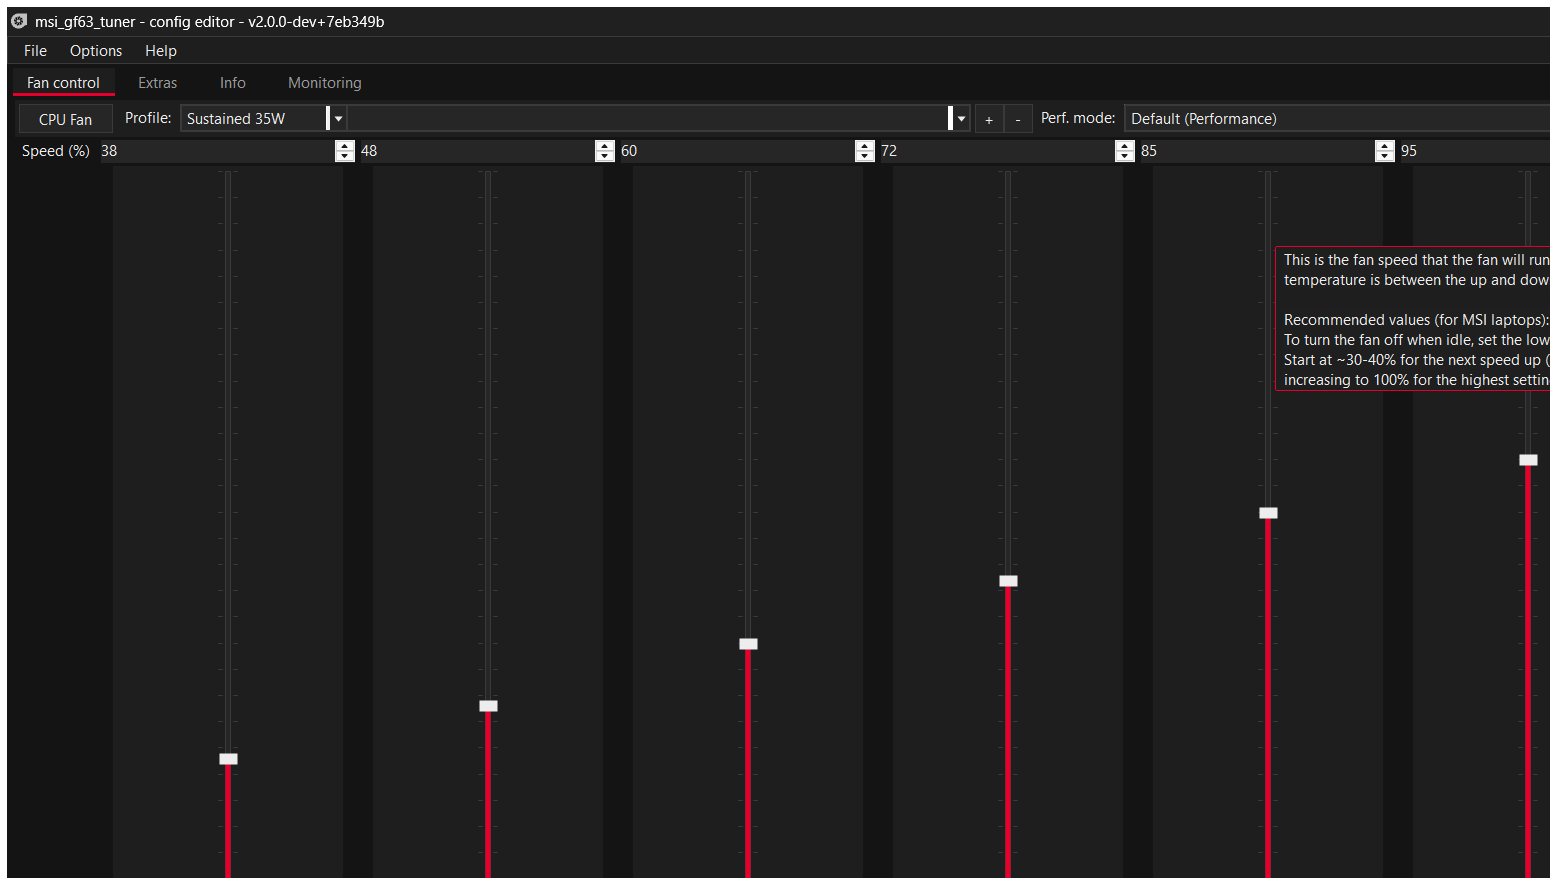
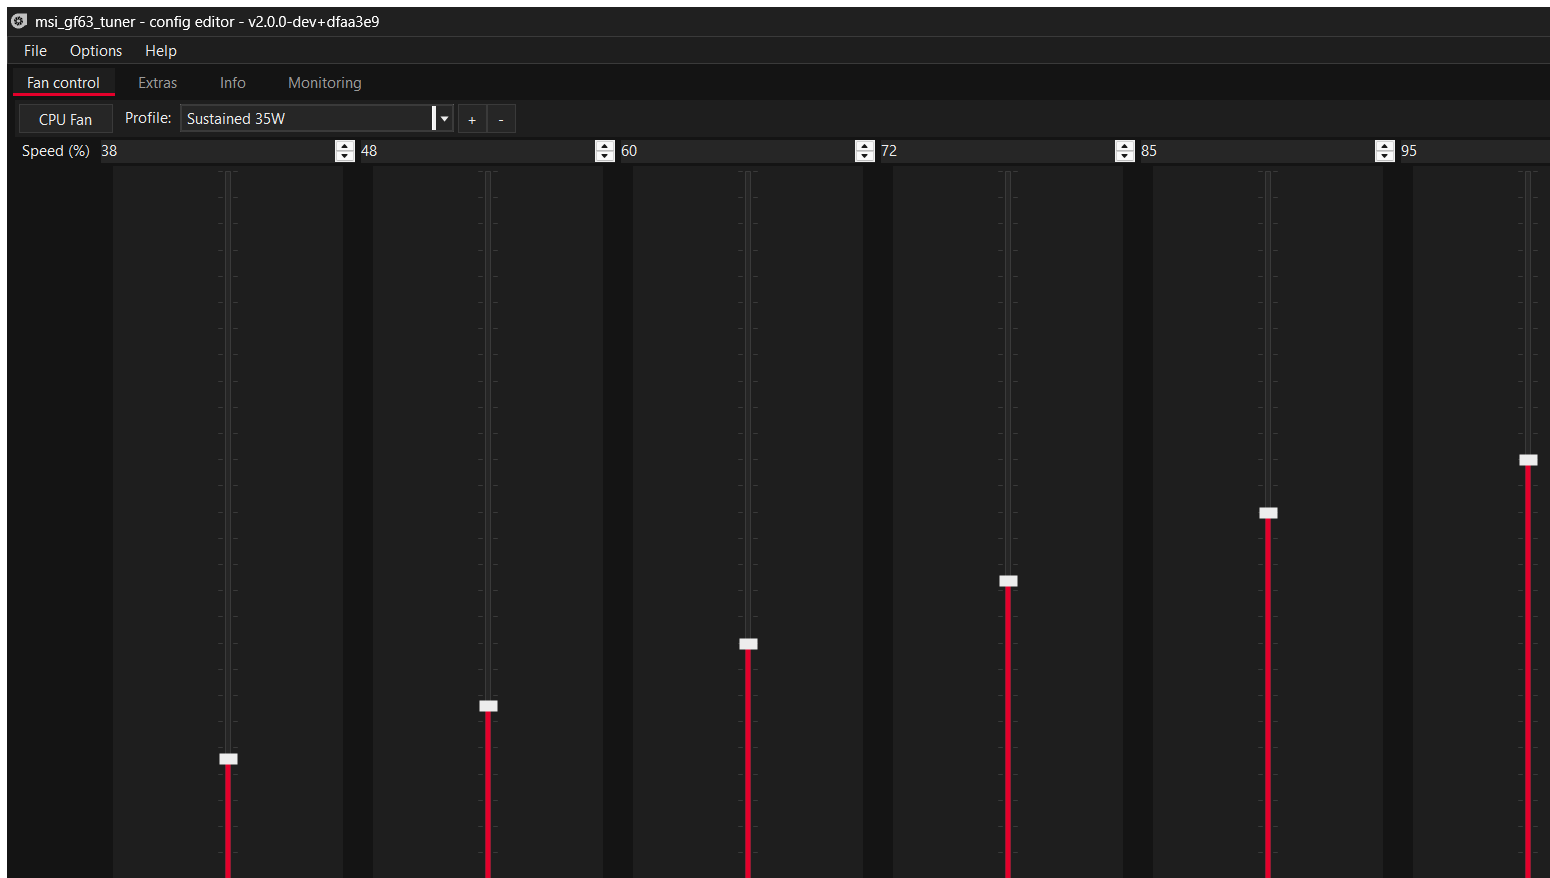
Document the monitoring, overlay and OSD features; refresh screenshots
The README still described this as a fan control utility with a CPU/GPU
temperature readout, and listed full hardware monitoring as a MSI Center
feature with no equivalent here. It now covers:

- the Monitoring tab, and where each reading comes from
- why RTCore64 was rejected rather than borrowed from Afterburner
- the desktop overlay, what it can and cannot draw over, and why
- the optional RTSS in-game OSD, and the --overlay / --osd switches
- the removal of the duplicated per-profile Perf. mode selector
- four new known issues: the exclusive-fullscreen limit, the iGPU having no
  sensor of its own, framerate needing RTSS, and the driver-free sensor stack
  being Intel-specific

Screenshots retaken from the current build, and two added for the Monitoring
tab and the overlay.

diff --git a/README.md b/README.md
@@ -1,9 +1,10 @@
 # msi_gf63_tuner
 
-A lightweight fan control and tuning utility for the **MSI GF63 Thin 12HW-004IN**,
-replacing MSI Center.
+A lightweight fan control, tuning and hardware monitoring utility for the
+**MSI GF63 Thin 12HW-004IN**, replacing MSI Center — and, on this machine, MSI
+Afterburner too.
 
-**~950 MB → 6.6 MB. No kernel driver. No background bloat.**
+**~950 MB → 7 MB. No kernel driver. No background bloat.**
 
 A fork of [YAMDCC](https://codeberg.org/Sparronator9999/YAMDCC) by
 Sparronator9999, retargeted at one laptop and fixed until it worked on it.
@@ -36,9 +37,16 @@ If you are not comfortable with any of the above, use MSI Center instead.
 
 ![Fan control tab](Media/tuner-FanControl.png)
 
-<details><summary><b>Extras tab</b> (click to expand)</summary>
+![Monitoring tab](Media/tuner-Monitoring.png)
+
+<details><summary><b>Extras tab, and the desktop overlay</b> (click to expand)</summary>
 
 ![Extras tab](Media/tuner-Extras.png)
+
+The overlay, floating over everything else on screen (shown here against a
+blank dark window so the labels are legible):
+
+![Overlay](Media/tuner-Overlay.png)
 
 </details>
 
@@ -53,12 +61,16 @@ Everything here was measured on this machine, not assumed:
 | BIOS | E16R7IMS.10F |
 | EC firmware | `16R7IMS1.104` (2023-06-13) |
 | CPU | Intel Core i5-12500H |
+| iGPU | Intel Iris Xe Graphics |
+| dGPU | Intel Arc A370M |
 | Fans | **one** — `Get_Fan(0)` reports `fan[0]` only |
 | Backend | WMI2 (`MSI_ACPI`), WMI version **2.8** |
-| Driver | **none** — no WinRing0 |
+| Driver | **none** — no WinRing0, no RTCore64 |
 
 It will likely work on other WMI2-era MSI laptops, but nothing else has been
-tested and no other configs are shipped.
+tested and no other configs are shipped. The GPU monitoring is Intel-specific
+(see [Hardware monitoring](#4-hardware-monitoring-without-a-kernel-driver));
+on an NVIDIA machine those rows will be empty while everything else still works.
 
 ## Features
 
@@ -70,10 +82,12 @@ tested and no other configs are shipped.
 | Keyboard backlight | off / low / mid / bright |
 | Performance mode | Silent, Balanced, Performance, Max Battery |
 | Win ↔ Fn key swap | supported |
-| Monitoring | CPU/GPU temperature, fan duty and RPM |
+| Hardware monitoring | CPU and **both** GPUs: temperature, load, clocks, VRAM, power |
+| Desktop overlay | click-through always-on-top readout |
+| In-game OSD | optional, via RivaTuner Statistics Server |
 
 Not included (MSI Center features with no equivalent here): Mystic Light RGB,
-Super Charger, LAN Manager, Win-key disable, full hardware monitoring.
+Super Charger, LAN Manager, Win-key disable.
 
 ## Why it uses no driver
 
@@ -87,6 +101,18 @@ That matters because the alternative — WinRing0, a kernel driver — is
 and it was flagged on this machine during development. The installer now
 excludes `WinRing0*.sys` from every component except EC Inspector, so a default
 install ships no driver at all.
+
+The same rule was applied to monitoring. MSI Afterburner reads its sensors
+through **RTCore64.sys**, and bundling that was considered and rejected:
+
+- It has an [unfixed arbitrary ring-0 read/write vulnerability](https://nvd.nist.gov/vuln/detail/CVE-2019-16098)
+  (CVE-2019-16098) and is on Microsoft's vulnerable-driver blocklist, so
+  shipping it would install a known local privilege-escalation primitive.
+- It is proprietary and not redistributable, which is incompatible with this
+  project's GPL-3 licence.
+
+So every reading below comes from an interface Windows or Intel already
+exposes to user mode. Nothing is installed to get them.
 
 ## What this fork changes
 
@@ -147,6 +173,11 @@ reimplemented rather than recoloured:
 Tooltips are owner-drawn too, since a `ToolTip` is a component and never
 appears in the control tree.
 
+The per-profile **Perf. mode** selector was also dropped from the Fan control
+tab. It duplicated the global one on Extras and caused confusion about which of
+the two actually applied; the per-profile value is still read and written in the
+config, it is simply no longer a second control competing with the first.
+
 ### 3. Fan curve tuned for a 35 W thin chassis
 
 `Configs-V2/MSI-Thin-GF63-12HW.xml` ships two profiles:
@@ -164,7 +195,86 @@ appears in the control tree.
 `OffsetDT` is `true` on this EC: `Get_Thermal` returns down-threshold
 *offsets*, so `Tdown = Tup − offset`.
 
-### 4. Builds without Visual Studio
+### 4. Hardware monitoring, without a kernel driver
+
+The **Monitoring** tab replaces what MSI Afterburner was installed for. Both
+GPUs are enumerated and reported separately — the integrated Iris Xe and the
+discrete Arc A370M — alongside the CPU, the fan, memory and power state:
+
+```
+CPU                             75 °C   100%   2091 MHz   9.5 W pkg / 7.7 W cores
+Intel Iris Xe (integrated)        --      0%    500 MHz    601 / 8043 MB    0.0 W
+Intel Arc A370M (discrete)      56 °C     0%    300 MHz     36 / 4018 MB    8.6 W
+Cooling                                  85%   4927 RPM
+System                          10.9 / 15.7 GB   on AC
+```
+
+Every value comes from an interface that is already present on the machine:
+
+| Reading | Source |
+|---|---|
+| CPU package / cores power | Windows **Energy Meter** performance counters (`RAPL_Package0_*`), in-box |
+| CPU load, clock | `Processor Information` counters |
+| CPU temperature | the EC, via the same WMI2 `Get_Temperature` call used for the fan curve |
+| Adapter identity, VRAM size | **DXGI** `IDXGIFactory1::EnumAdapters1` |
+| GPU load, VRAM in use | `GPU Engine` / `GPU Adapter Memory` counters, matched to each adapter by LUID |
+| GPU core and memory clock, Arc temperature | **Intel Level Zero** sysman (`ze_loader.dll`, shipped with the driver) |
+| GPU power and voltage | **Intel IGCL** (`ControlLib.dll`, from the driver store) |
+| Fan duty and RPM | the service, over the existing named pipe |
+| Frame rate | RivaTuner Statistics Server, if it happens to be running |
+
+The tab shows which of these are live on the **Sensor source** line, so it is
+obvious when a reading is missing because an interface is absent rather than
+because the value is zero.
+
+Two details that cost the most time to get right, in case they are useful
+elsewhere:
+
+- The RAPL counters report **energy in nanojoules and time in milliseconds**,
+  and they only update about once a second. Sampling them over a 250 ms window
+  gave 6.97 W where the true figure was 16.82 W. Readings are now held until at
+  least 900 ms of counter time has elapsed.
+- `GPU Adapter Memory\Dedicated Usage` reads **zero** on this hardware; the
+  real figure is in `Shared Usage`, because the Arc is on a shared-memory
+  design. Reporting "dedicated" would have shown 0 MB permanently.
+
+If MSI Afterburner *is* running, its shared memory is read and used where it
+overlaps, so nothing is lost by keeping it. It is no longer needed: the Arc
+power figure read through IGCL (8.91 W) matched Afterburner's own reading
+(8.6–8.7 W) on the same idle desktop.
+
+### 5. Overlay and in-game OSD
+
+**Options ▸ Show overlay** puts the same readings in a borderless,
+click-through, always-on-top window in the corner of the screen. It is a normal
+top-most window — nothing is injected into anything — so it draws over the
+desktop and over windowed and borderless-windowed games, which is how most
+modern titles run.
+
+It cannot draw over a game in **exclusive fullscreen**. That mode bypasses the
+desktop compositor entirely, and the only way around it is to inject a DLL and
+hook the Direct3D present call. That is what RivaTuner does, and it is both
+invasive and the kind of behaviour anti-cheat software is built to detect, so
+it is deliberately not done here.
+
+For those cases, **Options ▸ Show in-game OSD (RTSS)** publishes the same text
+into RivaTuner Statistics Server's shared memory, which draws it inside the
+game. RTSS is optional and is only needed for exclusive fullscreen; note that
+RTSS hooks games, so check your game's anti-cheat policy before using it.
+
+Both toggles can be set at startup, for a shortcut that launches straight into
+a readout:
+
+```
+ConfigEditor.exe --overlay
+ConfigEditor.exe --overlay --osd
+```
+
+The sensor poll follows whatever is actually displayed, so closing the window
+to the tray while the overlay is up keeps the overlay updating, and with
+nothing shown nothing is polled.
+
+### 6. Builds without Visual Studio
 
 Upstream expects VS MSBuild. This builds with the plain .NET SDK — see
 [BUILD-NOTES-MS16R7.md](BUILD-NOTES-MS16R7.md).
@@ -203,6 +313,15 @@ Two builds are published:
 
 ## Known issues
 
+- **The overlay cannot appear over exclusive-fullscreen games.** This is a
+  deliberate limitation, not a bug — see
+  [Overlay and in-game OSD](#5-overlay-and-in-game-osd).
+- **The Iris Xe reports no temperature and 0.0 W.** It has no sensor of its
+  own: it sits on the CPU die and its power is already counted in the CPU
+  package figure. The row is kept so its load, clock and memory use are visible.
+- **Framerate shows `--` unless RivaTuner Statistics Server is running.**
+  Frame rate can only be measured from inside the game's present loop, which is
+  exactly the hooking this build does not do.
 - **`yamdcc.exe -apply` silently does nothing.** The CLI pushes the IPC message
   then exits immediately; `WaitWrite()` only flushes the local write, so the
   pipe closes before the service reads it. The config is saved but never
@@ -221,7 +340,8 @@ Two builds are published:
 
 All the hard work — the EC reverse engineering, the service, the IPC layer, the
 config system — is [Sparronator9999](https://codeberg.org/Sparronator9999)'s.
-This fork fixes bugs, adds a theme, and tunes it for one laptop.
+This fork fixes bugs, adds a theme and a monitoring stack, and tunes it for one
+laptop.
 
 GPL-3.0-or-later, unchanged from upstream. Original copyright © 2023–2025
 Sparronator9999 and contributors; fork modifications © 2026 kmvishn.
